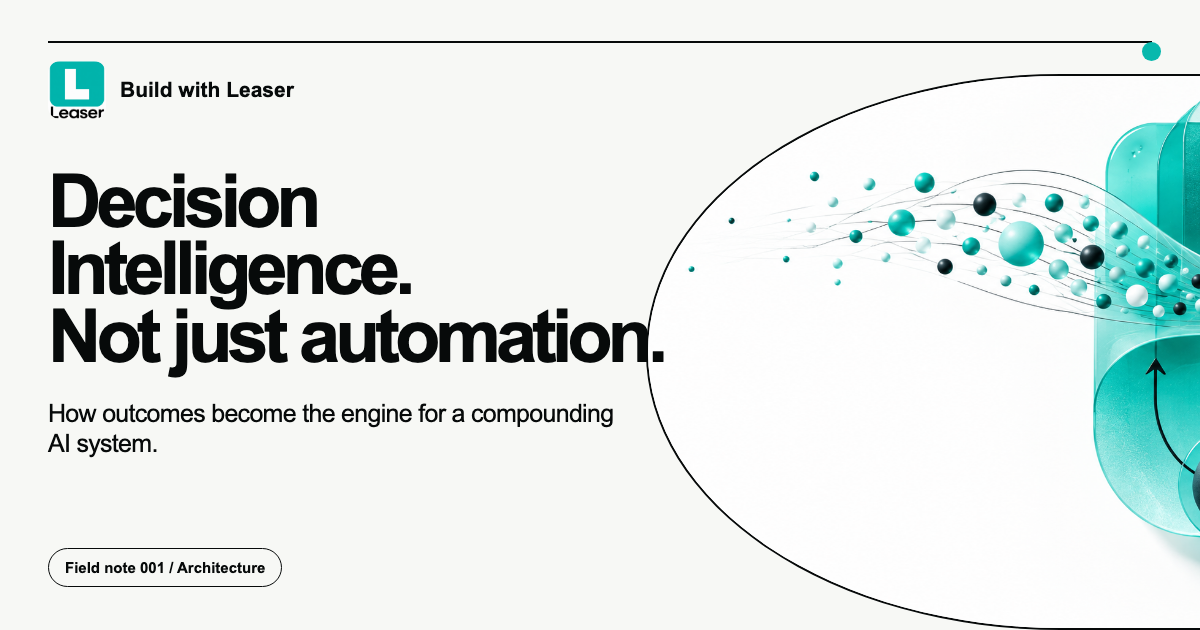
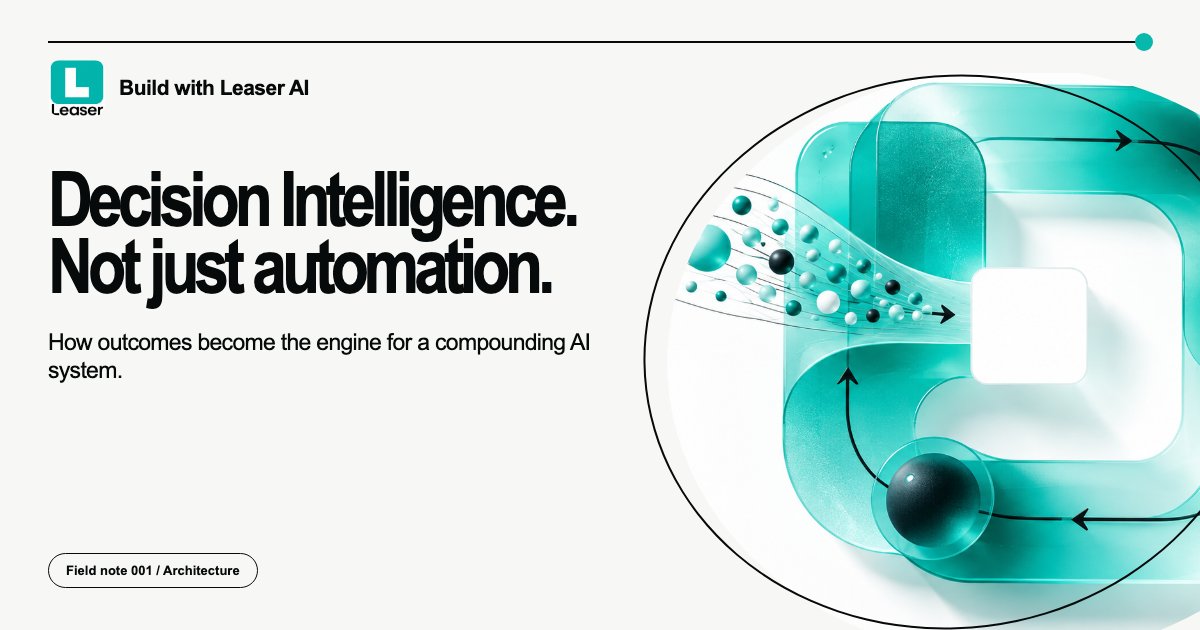
brand: update Build with Leaser AI lockup

diff --git a/index.html b/index.html
@@ -3,7 +3,7 @@
   <head>
     <meta charset="utf-8" />
     <meta name="viewport" content="width=device-width, initial-scale=1" />
-    <title>Build with Leaser | Outcome Intelligence for Multifamily</title>
+    <title>Build with Leaser AI | Outcome Intelligence for Multifamily</title>
     <meta name="description" content="Architecture, research, and field notes from Leaser on building AI systems that learn from governed decisions and measurable multifamily outcomes." />
     <meta name="theme-color" content="#08b8ad" />
     <meta name="author" content="Leaser AI" />
@@ -18,7 +18,7 @@
     <link rel="stylesheet" href="styles.css" />
 
     <meta property="og:type" content="website" />
-    <meta property="og:site_name" content="Build with Leaser" />
+    <meta property="og:site_name" content="Build with Leaser AI" />
     <meta property="og:url" content="https://build.leaserai.com/" />
     <meta property="og:title" content="Intelligence that learns from outcomes." />
     <meta property="og:description" content="Ideas for building governed AI systems that get better after they act." />
@@ -35,7 +35,7 @@
       {
         "@context": "https://schema.org",
         "@type": "WebSite",
-        "name": "Build with Leaser",
+        "name": "Build with Leaser AI",
         "url": "https://build.leaserai.com/",
         "description": "Architecture, research, and field notes from Leaser on outcome-driven AI systems.",
         "publisher": { "@type": "Organization", "name": "Leaser AI", "url": "https://leaserai.com/" }
@@ -46,9 +46,9 @@
     <a class="skip-link" href="#main-content">Skip to content</a>
 
     <header class="site-header">
-      <a class="brand" href="#top" aria-label="Build with Leaser home">
+      <a class="brand" href="#top" aria-label="Build with Leaser AI home">
         <img src="assets/leaser-vertical-logo.png" alt="Leaser" width="52" height="52" />
-        <span>Build with Leaser</span>
+        <span>Build with Leaser AI</span>
       </a>
       <nav aria-label="Primary navigation">
         <a href="#insights">Insights</a>
@@ -61,7 +61,7 @@
     <main id="main-content">
       <section class="home-hero" id="top">
         <div class="home-hero-copy">
-          <p class="issue">Build with Leaser / Insights</p>
+          <p class="issue">Build with Leaser AI / Insights</p>
           <h1>Intelligence that learns from outcomes.</h1>
           <p class="home-dek">Architecture, research, and field notes for people building the intelligence layer of multifamily.</p>
           <a class="text-link" href="insights/decision-intelligence/">Read our first field note <span aria-hidden="true">↗</span></a>
@@ -139,7 +139,7 @@
     <footer>
       <div class="footer-brand">
         <img src="assets/leaser-vertical-logo.png" alt="" width="44" height="44" />
-        <span>Build with Leaser</span>
+        <span>Build with Leaser AI</span>
       </div>
       <p>Outcome Intelligence for Multifamily.</p>
       <p>© <span id="year"></span> Leaser AI</p>

diff --git a/insights/decision-intelligence/index.html b/insights/decision-intelligence/index.html
@@ -3,7 +3,7 @@
   <head>
     <meta charset="utf-8" />
     <meta name="viewport" content="width=device-width, initial-scale=1" />
-    <title>Decision Intelligence, not just automation | Build with Leaser</title>
+    <title>Decision Intelligence, not just automation | Build with Leaser AI</title>
     <meta name="description" content="Leaser is building outcome-driven Decision Intelligence for multifamily: governed decisions, causal measurement, and a closed learning loop that gets smarter with every result." />
     <meta name="theme-color" content="#08b8ad" />
     <meta name="author" content="Leaser AI" />
@@ -18,7 +18,7 @@
     <link rel="stylesheet" href="../../styles.css" />
 
     <meta property="og:type" content="article" />
-    <meta property="og:site_name" content="Build with Leaser" />
+    <meta property="og:site_name" content="Build with Leaser AI" />
     <meta property="og:url" content="https://build.leaserai.com/insights/decision-intelligence/" />
     <meta property="og:title" content="Decision Intelligence, not just automation" />
     <meta property="og:description" content="A system that learns which decisions create better occupancy and revenue—not merely how to automate more tasks." />
@@ -50,9 +50,9 @@
     <a class="skip-link" href="#article">Skip to article</a>
 
     <header class="site-header">
-      <a class="brand" href="../../" aria-label="Build with Leaser home">
+      <a class="brand" href="../../" aria-label="Build with Leaser AI home">
         <img src="../../assets/leaser-vertical-logo.png" alt="Leaser" width="52" height="52" />
-        <span>Build with Leaser</span>
+        <span>Build with Leaser AI</span>
       </a>
       <nav aria-label="Primary navigation">
         <a href="../../#insights">Insights</a>
@@ -228,7 +228,7 @@
     <footer>
       <div class="footer-brand">
         <img src="../../assets/leaser-vertical-logo.png" alt="" width="44" height="44" />
-        <span>Build with Leaser</span>
+        <span>Build with Leaser AI</span>
       </div>
       <p>Outcome Intelligence for Multifamily.</p>
       <p>© <span id="year"></span> Leaser AI</p>

diff --git a/README.md b/README.md
@@ -1,4 +1,4 @@
-# Build with Leaser
+# Build with Leaser AI
 
 The public technology and ecosystem site for `build.leaserai.com`.
 
